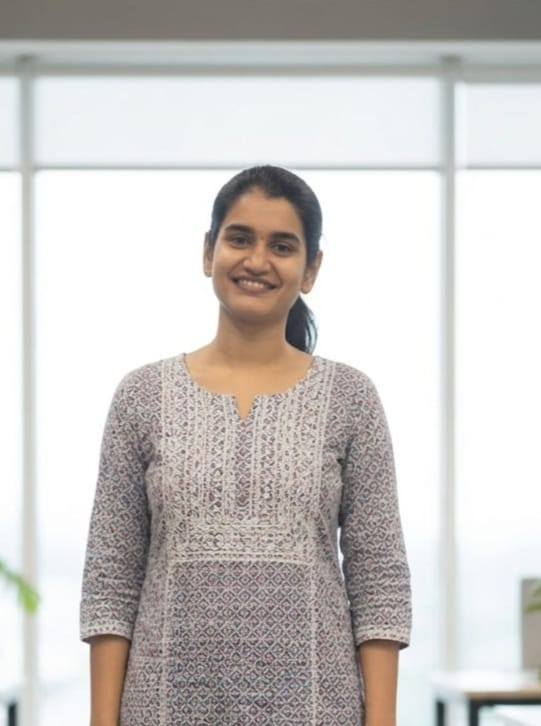
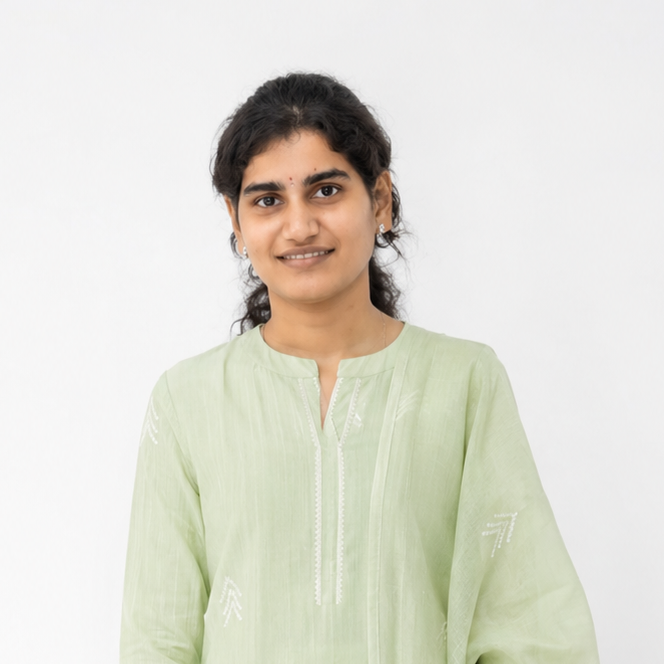
cleanup of code

diff --git a/src/components/layout/Navbar.tsx b/src/components/layout/Navbar.tsx
@@ -10,6 +10,7 @@ export default function Navbar() {
   const [isOpen, setIsOpen] = useState(false);
   const [scrolled, setScrolled] = useState(false);
   const [hovered, setHovered] = useState<string | null>(null);
+  const [activeSection, setActiveSection] = useState("");
   const mobileMenuId = "mobile-menu";
 
   const scrollToSection = (href: string) => {
@@ -21,6 +22,32 @@ export default function Navbar() {
     if (element) element.scrollIntoView({ behavior: "smooth" });
   };
   const { toggleTheme, resolvedTheme } = useTheme();
+
+  // Highlight the nav link that matches the section currently in the viewport
+  useEffect(() => {
+    const sections = document.querySelectorAll("section[id]");
+    if (sections.length === 0) return;
+
+    const observer = new IntersectionObserver(
+      (entries) => {
+        const visible = entries
+          .filter((entry) => entry.isIntersecting)
+          .sort((a, b) => a.boundingClientRect.top - b.boundingClientRect.top);
+        setActiveSection(visible.length > 0 ? visible[0].target.id : "");
+      },
+      { rootMargin: "-20% 0px -60% 0px", threshold: 0 }
+    );
+    sections.forEach((section) => observer.observe(section));
+    return () => observer.disconnect();
+  }, []);
+
+  // Close mobile menu automatically when the user scrolls
+  useEffect(() => {
+    if (!isOpen) return;
+    const handleScroll = () => setIsOpen(false);
+    window.addEventListener("scroll", handleScroll, { passive: true });
+    return () => window.removeEventListener("scroll", handleScroll);
+  }, [isOpen]);
 
   useEffect(() => {
     const handleScroll = () => setScrolled(window.scrollY > 50);
@@ -53,29 +80,37 @@ export default function Navbar() {
 
           {/* Desktop nav */}
           <div className="hidden md:flex items-center gap-8">
-            {NAVIGATION.map((item) => (
-              <button
-                key={item.name}
-                onClick={() => scrollToSection(item.href)}
-                onMouseEnter={() => setHovered(item.name)}
-                onMouseLeave={() => setHovered(null)}
-                className="relative text-sm text-text-secondary hover:text-text-primary transition-colors cursor-pointer py-1"
-              >
-                {item.name}
-                <AnimatePresence>
-                  {hovered === item.name && (
-                    <motion.span
-                      layoutId="nav-underline"
-                      initial={{ opacity: 0, scaleX: 0 }}
-                      animate={{ opacity: 1, scaleX: 1 }}
-                      exit={{ opacity: 0, scaleX: 0 }}
-                      transition={{ duration: 0.2 }}
-                      className="absolute bottom-0 left-0 right-0 h-px bg-accent origin-left"
-                    />
+            {NAVIGATION.map((item) => {
+              const isActive = activeSection === item.href.replace("#", "");
+              return (
+                <button
+                  key={item.name}
+                  onClick={() => scrollToSection(item.href)}
+                  onMouseEnter={() => setHovered(item.name)}
+                  onMouseLeave={() => setHovered(null)}
+                  className={cn(
+                    "relative text-sm transition-colors cursor-pointer py-1",
+                    isActive
+                      ? "text-text-primary"
+                      : "text-text-secondary hover:text-text-primary"
                   )}
-                </AnimatePresence>
-              </button>
-            ))}
+                >
+                  {item.name}
+                  <AnimatePresence>
+                    {(hovered === item.name || isActive) && (
+                      <motion.span
+                        key={item.name}
+                        initial={{ opacity: 0, scaleX: 0 }}
+                        animate={{ opacity: 1, scaleX: 1 }}
+                        exit={{ opacity: 0, scaleX: 0 }}
+                        transition={{ duration: 0.2 }}
+                        className="absolute bottom-0 left-0 right-0 h-px bg-accent origin-left"
+                      />
+                    )}
+                  </AnimatePresence>
+                </button>
+              );
+            })}
           </div>
 
           <div className="hidden md:flex items-center gap-4">

diff --git a/src/pages/Home.tsx b/src/pages/Home.tsx
@@ -8,7 +8,9 @@ import Awards from "@/components/sections/Awards";
 import Skills from "@/components/sections/Skills";
 import Education from "@/components/sections/Education";
 import Contact from "@/components/sections/Contact";
-import { useEffect } from "react";
+import { useState, useEffect } from "react";
+import { motion, AnimatePresence } from "framer-motion";
+import { ArrowUp } from "lucide-react";
 
 export default function Home() {
   useEffect(() => {
@@ -37,6 +39,36 @@ export default function Home() {
       <Education />
       <Contact />
       <Footer />
+      <ScrollToTop />
     </main>
+  );
+}
+
+function ScrollToTop() {
+  const [visible, setVisible] = useState(false);
+
+  useEffect(() => {
+    const handleScroll = () => setVisible(window.scrollY > 600);
+    window.addEventListener("scroll", handleScroll, { passive: true });
+    return () => window.removeEventListener("scroll", handleScroll);
+  }, []);
+
+  const scrollToTop = () => window.scrollTo({ top: 0, behavior: "smooth" });
+
+  return (
+    <AnimatePresence>
+      {visible && (
+        <motion.button
+          initial={{ opacity: 0, y: 16 }}
+          animate={{ opacity: 1, y: 0 }}
+          exit={{ opacity: 0, y: 16 }}
+          onClick={scrollToTop}
+          className="fixed bottom-8 right-8 z-40 p-3 rounded-full bg-accent text-white shadow-lg hover:bg-accent/90 transition-colors cursor-pointer"
+          aria-label="Scroll to top"
+        >
+          <ArrowUp className="w-5 h-5" />
+        </motion.button>
+      )}
+    </AnimatePresence>
   );
 }

diff --git a/src/components/sections/Hero.tsx b/src/components/sections/Hero.tsx
@@ -1,4 +1,5 @@
 
+import { useState } from "react";
 import { motion } from "framer-motion";
 import { SITE_CONFIG } from "@/data/content";
 import { StaggerChildren, StaggerItem, FadeInUp, MagneticHover } from "@/lib/animations";
@@ -6,11 +7,13 @@ import { Button } from "@/components/ui/button";
 import { ChevronDown, Download, ArrowUpRight } from "lucide-react";
 import profileImage from "@/assets/profile/image.png";
 import HeroBackground from "@/components/sections/HeroBackground";
+import { cn } from "@/lib/utils";
 
 export default function Hero() {
   const parts = SITE_CONFIG.name.split(" ");
   const lastName = parts.pop() ?? "";
   const firstName = parts.join(" ");
+  const [imageLoaded, setImageLoaded] = useState(false);
 
   return (
     <section id="home" className="relative min-h-screen flex items-center pt-20 overflow-hidden">
@@ -61,7 +64,7 @@ export default function Hero() {
                 <div className="flex flex-wrap gap-4">
                   <MagneticHover strength={0.25}>
                     <Button size="lg" asChild>
-                      <a href={SITE_CONFIG.resumeUrl} download>
+                      <a href={SITE_CONFIG.resumeUrl} download={SITE_CONFIG.resumeFileName}>
                         <Download className="mr-2 h-4 w-4" />
                         Download Resume
                       </a>
@@ -141,7 +144,11 @@ export default function Hero() {
                 <img
                   src={profileImage}
                   alt={`${SITE_CONFIG.name} profile`}
-                  className="w-full h-full object-cover"
+                  onLoad={() => setImageLoaded(true)}
+                  className={cn(
+                    "w-full h-full object-cover transition-opacity duration-700",
+                    imageLoaded ? "opacity-100" : "opacity-0"
+                  )}
                 />
                 {/* Shimmer sweep */}
                 <motion.div

diff --git a/src/pages/Resume.tsx b/src/pages/Resume.tsx
@@ -1,4 +1,5 @@
 import { useEffect, useRef, useState } from "react";
+import { motion } from "framer-motion";
 import { SITE_CONFIG } from "@/data/content";
 import { FadeInUp } from "@/lib/animations";
 import { Card } from "@/components/ui/card";
@@ -48,8 +49,12 @@ function PdfBlobViewer({ url }: { url: string }) {
 
   if (loading) {
     return (
-      <div className="flex items-center justify-center py-20 text-text-secondary">
-        Loading resume...
+      <div className="flex items-center justify-center py-20">
+        <motion.div
+          animate={{ rotate: 360 }}
+          transition={{ duration: 1, repeat: Infinity, ease: "linear" }}
+          className="w-8 h-8 border-2 border-accent border-t-transparent rounded-full"
+        />
       </div>
     );
   }
@@ -101,7 +106,7 @@ export default function Resume() {
 
               <div className="p-6 flex justify-center">
                 <Button size="lg" asChild>
-                  <a href={SITE_CONFIG.resumeUrl} download>
+                  <a href={SITE_CONFIG.resumeUrl} download={SITE_CONFIG.resumeFileName}>
                     <Download className="mr-2 h-4 w-4" />
                     Download PDF Resume
                   </a>

diff --git a/src/components/sections/Contact.tsx b/src/components/sections/Contact.tsx
@@ -1,5 +1,5 @@
 
-import { useState } from "react";
+import { useState, useEffect } from "react";
 import { motion } from "framer-motion";
 import { SITE_CONFIG } from "@/data/content";
 import { FadeInUp } from "@/lib/animations";
@@ -45,8 +45,14 @@ export default function Contact() {
     await navigator.clipboard.writeText(SITE_CONFIG.email);
     setCopied(true);
     toast({ title: "Email copied", description: `${SITE_CONFIG.email} copied to clipboard` });
-    setTimeout(() => setCopied(false), 2000);
   };
+
+  // Reset copied state after 2 seconds
+  useEffect(() => {
+    if (!copied) return;
+    const timer = setTimeout(() => setCopied(false), 2000);
+    return () => clearTimeout(timer);
+  }, [copied]);
 
   return (
     <section id="contact" className="py-24 md:py-32">

diff --git a/src/data/content.ts b/src/data/content.ts
@@ -2,6 +2,7 @@ import spot1 from "@/assets/awards/spot1.png";
 import spot2 from "@/assets/awards/spot2.png";
 import spot3 from "@/assets/awards/spot3.png";
 import spot4 from "@/assets/awards/spot4.png";
+import resumePdf from "@/assets/pdfs/Vishnu_Priya_Vattikunta_Resume_0726.pdf";
 
 // Global site metadata used across Navbar, Footer, SEO meta tags, and Hero
 export const SITE_CONFIG = {
@@ -20,7 +21,8 @@ export const SITE_CONFIG = {
     "Healthcare Systems",
     "Aviation",
   ],
-  resumeUrl: "/Vishnu_Priya_Vattikunta_Resume_0726.pdf",
+  resumeUrl: resumePdf,
+  resumeFileName: "Vishnu_Priya_Vattikunta_Resume_0726.pdf",
 };
 
 // Navbar and footer link ordering
@@ -57,7 +59,6 @@ export const EXPERIENCE = [
         technologies: [
           "React.js",
           "NestJS",
-          "Python",
           "Tailwind CSS",
           "Bitbucket",
           "Atlassian Bamboo",